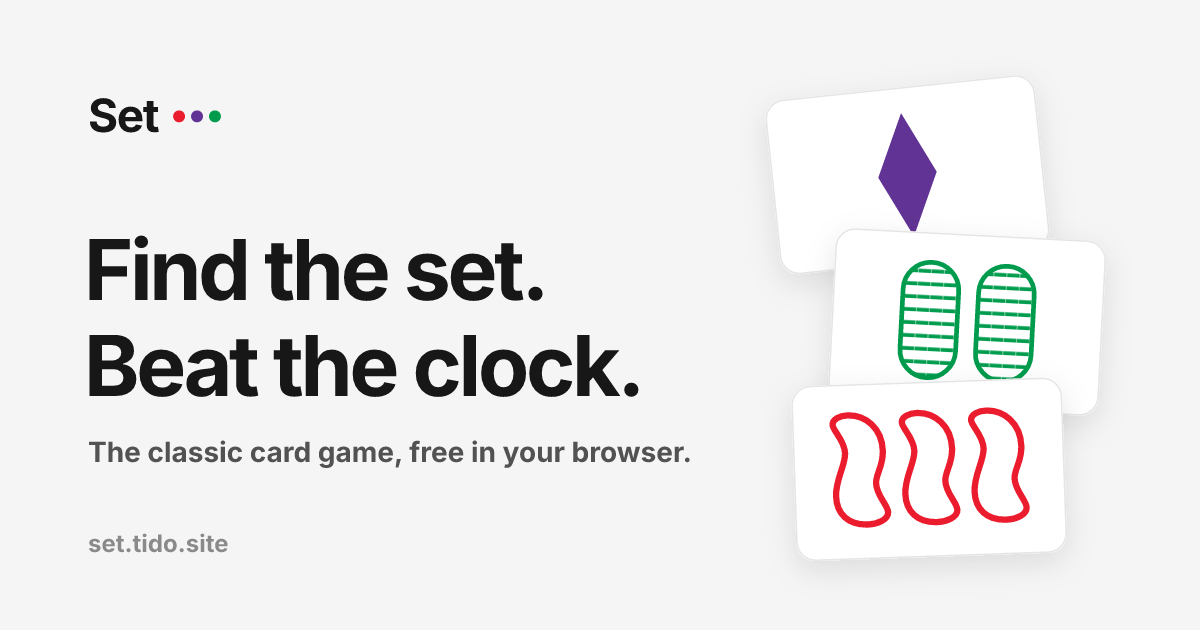
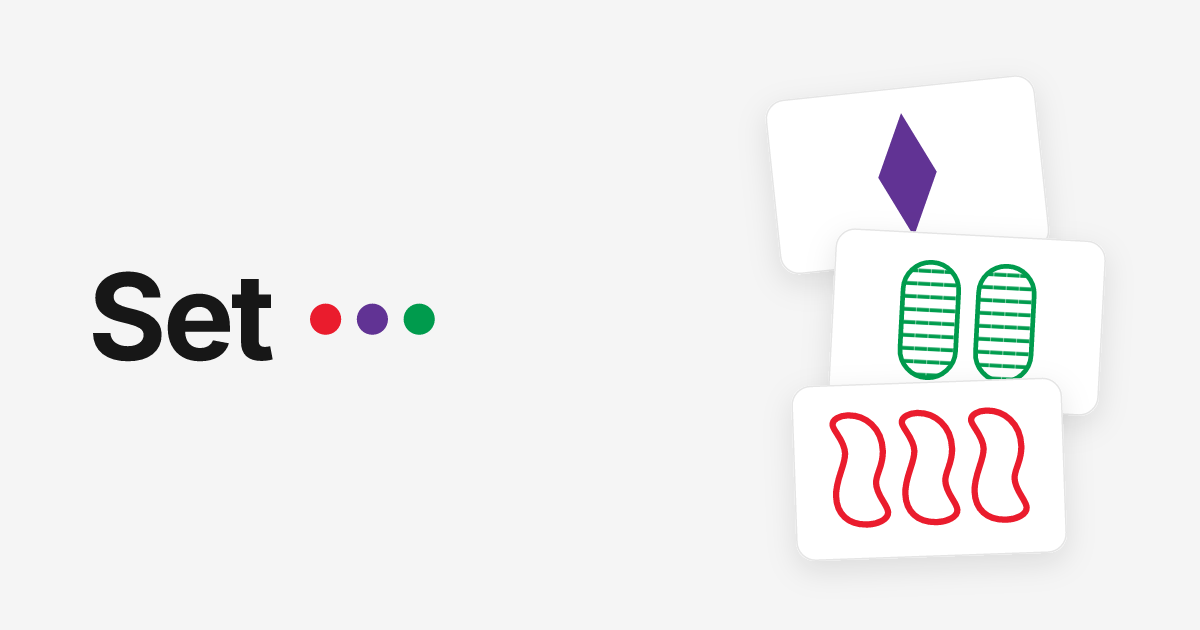
Calmer reminder settings and bare page names
- Reminder modal: no toggle or Save/Cancel; one line "Email me at [time] if I haven’t played." with a flat neutral time chip, changes save immediately, one quiet Turn off / Turn on.
- TimeSelect: flat chip sized to its label over a transparent native select (keeps the native picker, password-manager ignore attributes).
- Titles, descriptions, OG/Twitter tags and manifest reduced to bare names (Set Daily Deal, Set Puzzle, ...); default share image drops its tagline.

diff --git a/app/javascript/components/ReminderDialog.tsx b/app/javascript/components/ReminderDialog.tsx
@@ -1,7 +1,8 @@
 import React, { useEffect, useRef, useState } from 'react'
 import TimeSelect from './TimeSelect'
-import { getReminder, saveReminder, DEFAULT_REMINDER_MINUTES } from '../lib/reminder'
-import { primaryButton, secondaryButton } from '../lib/buttons'
+import { CloseIcon } from './Hud'
+import { getReminder, saveReminder, DEFAULT_REMINDER_MINUTES, type ReminderSetting } from '../lib/reminder'
+import { primaryButtonSmall, secondaryButtonSmall } from '../lib/buttons'
 
 const OPEN_EVENT = 'setgame:reminder-settings'
 
@@ -9,22 +10,19 @@ export function openReminderDialog(): void {
   window.dispatchEvent(new Event(OPEN_EVENT))
 }
 
-/** "Reminder" from the header menu (signed in): on/off and the time. */
+/** "Reminder" from the header menu (signed in). Every change saves as it's made. */
 const ReminderDialog: React.FC = () => {
   const ref = useRef<HTMLDialogElement | null>(null)
-  const [openCount, setOpenCount] = useState(0)
-  const [enabled, setEnabled] = useState(false)
-  const [minutes, setMinutes] = useState(DEFAULT_REMINDER_MINUTES)
+  const [open, setOpen] = useState(false)
+  const [setting, setSetting] = useState<ReminderSetting>({ enabled: false, minutes: DEFAULT_REMINDER_MINUTES })
   const [saving, setSaving] = useState(false)
   const [failed, setFailed] = useState(false)
 
   useEffect(() => {
     const onOpen = () => {
-      const current = getReminder()
-      setEnabled(current?.enabled ?? false)
-      setMinutes(current?.minutes ?? DEFAULT_REMINDER_MINUTES)
+      setSetting(getReminder() ?? { enabled: false, minutes: DEFAULT_REMINDER_MINUTES })
       setFailed(false)
-      setOpenCount(count => count + 1)
+      setOpen(true)
       if (ref.current && !ref.current.open) ref.current.showModal()
     }
     window.addEventListener(OPEN_EVENT, onOpen)
@@ -32,46 +30,60 @@ const ReminderDialog: React.FC = () => {
   }, [])
 
   const close = () => ref.current?.close()
-  const save = async () => {
+  const apply = async (next: ReminderSetting) => {
+    const previous = setting
+    setSetting(next)
     setSaving(true)
-    const ok = await saveReminder({ enabled, minutes })
+    setFailed(false)
+    const ok = await saveReminder(next)
     setSaving(false)
-    if (ok) close()
-    else setFailed(true)
+    if (!ok) {
+      setSetting(previous)
+      setFailed(true)
+    }
   }
 
   return (
     <dialog
       ref={ref}
       aria-labelledby="reminder-dialog-title"
+      onClose={() => setOpen(false)}
       onClick={event => { if (event.target === ref.current) close() }}
       className="m-auto w-[min(22rem,calc(100vw-2rem))] rounded-2xl border border-neutral-200 bg-white p-0 text-neutral-900 shadow-xl backdrop:bg-black/40 dark:border-neutral-700 dark:bg-neutral-900 dark:text-neutral-100"
     >
-      {openCount > 0 && (
-        <div className="p-5">
-          <h2 id="reminder-dialog-title" className="text-base font-semibold">Reminder email</h2>
-          <p className="mt-1 text-xs text-neutral-500 dark:text-neutral-400">Only on days you haven’t played.</p>
-          <div className="mt-4 flex items-center justify-between gap-3">
-            <label htmlFor="reminder-enabled" className="text-sm">Email me at</label>
-            <div className="flex items-center gap-2">
-              <TimeSelect value={minutes} onChange={setMinutes} disabled={!enabled} />
-              <button
-                id="reminder-enabled"
-                type="button"
-                role="switch"
-                aria-checked={enabled}
-                aria-label="Reminder email"
-                onClick={() => setEnabled(value => !value)}
-                className={`relative h-6 w-10 shrink-0 rounded-full transition-colors ${enabled ? 'bg-emerald-500' : 'bg-neutral-300 dark:bg-neutral-600'}`}
-              >
-                <span className={`absolute top-0.5 h-5 w-5 rounded-full bg-white shadow transition-all ${enabled ? 'left-[1.125rem]' : 'left-0.5'}`} />
-              </button>
-            </div>
-          </div>
-          {failed && <p role="status" className="mt-2 text-xs text-rose-700 dark:text-rose-300">Couldn’t save. Try again.</p>}
-          <div className="mt-5 flex gap-2">
-            <button type="button" onClick={close} className={`${secondaryButton} flex-1`}>Cancel</button>
-            <button type="button" onClick={() => void save()} disabled={saving} className={`${primaryButton} flex-1`}>Save</button>
+      {open && (
+        <div className="relative p-5">
+          <h2 id="reminder-dialog-title" className="pr-8 text-base font-semibold">
+            Reminder email
+            <span className="ml-1.5 text-sm font-normal text-neutral-400 dark:text-neutral-500">{setting.enabled ? 'On' : 'Off'}</span>
+          </h2>
+          <button
+            type="button"
+            onClick={close}
+            aria-label="Close"
+            className="absolute right-2 top-2 flex h-9 w-9 items-center justify-center rounded-full text-neutral-400 transition-colors hover:bg-neutral-100 hover:text-neutral-700 dark:text-neutral-500 dark:hover:bg-neutral-800 dark:hover:text-neutral-200"
+          >
+            <CloseIcon />
+          </button>
+          <p className={`mt-2 text-balance text-sm leading-7 transition-colors ${setting.enabled ? 'text-neutral-700 dark:text-neutral-200' : 'text-neutral-500 dark:text-neutral-400'}`}>
+            Email me at{' '}
+            <TimeSelect
+              value={setting.minutes}
+              disabled={saving}
+              onChange={minutes => (setting.enabled ? void apply({ ...setting, minutes }) : setSetting({ ...setting, minutes }))}
+            />
+            {' '}if I haven’t played.
+          </p>
+          <div className="mt-4 flex items-center gap-3">
+            <button
+              type="button"
+              disabled={saving}
+              onClick={() => void apply({ ...setting, enabled: !setting.enabled })}
+              className={setting.enabled ? secondaryButtonSmall : primaryButtonSmall}
+            >
+              {setting.enabled ? 'Turn off' : 'Turn on'}
+            </button>
+            {failed && <p role="status" className="text-xs text-rose-700 dark:text-rose-300">Couldn’t save. Try again.</p>}
           </div>
         </div>
       )}

diff --git a/app/javascript/components/TimeSelect.tsx b/app/javascript/components/TimeSelect.tsx
@@ -6,25 +6,43 @@ interface TimeSelectProps {
   onChange: (minutes: number) => void
   label?: string
   disabled?: boolean
+  /** xs for inline card copy, sm for dialogs. */
+  size?: 'xs' | 'sm'
 }
 
-/** A half-hourly time picker in the site's pill shape. */
-const TimeSelect: React.FC<TimeSelectProps> = ({ value, onChange, label = 'Reminder time', disabled = false }) => (
-  <select
-    aria-label={label}
-    value={value}
-    disabled={disabled}
-    onChange={event => onChange(Number(event.target.value))}
-    data-1p-ignore
-    data-lpignore="true"
-    data-bwignore="true"
-    autoComplete="off"
-    className="min-h-9 cursor-pointer rounded-full border border-neutral-300 bg-white px-3 text-xs font-medium tabular-nums text-neutral-800 focus:border-neutral-500 focus:outline-none disabled:opacity-50 dark:border-neutral-600 dark:bg-neutral-900 dark:text-neutral-100"
+/**
+ * A half-hourly time picker drawn as a flat neutral chip sized to its text.
+ * A transparent native <select> sits on top, so phones show their own wheel
+ * and keyboards work as usual.
+ */
+const TimeSelect: React.FC<TimeSelectProps> = ({ value, onChange, label = 'Reminder time', disabled = false, size = 'sm' }) => (
+  <span
+    className={`relative inline-flex items-center gap-1 rounded-md bg-neutral-100 align-middle font-medium tabular-nums text-neutral-900 transition-colors hover:bg-neutral-200 focus-within:ring-2 focus-within:ring-neutral-400 dark:bg-neutral-800 dark:text-neutral-100 dark:hover:bg-neutral-700 ${
+      size === 'xs' ? 'h-6 px-1.5 text-xs' : 'h-7 px-2 text-sm'
+    } ${disabled ? 'opacity-50' : ''}`}
   >
-    {REMINDER_TIMES.map(minutes => (
-      <option key={minutes} value={minutes}>{reminderLabel(minutes)}</option>
-    ))}
-  </select>
+    <span aria-hidden="true">{reminderLabel(value)}</span>
+    <svg aria-hidden="true" viewBox="0 0 12 12" fill="none" stroke="currentColor" strokeWidth="1.6" strokeLinecap="round" strokeLinejoin="round"
+      className={`text-neutral-400 dark:text-neutral-500 ${size === 'xs' ? 'h-2.5 w-2.5' : 'h-3 w-3'}`}>
+      <path d="M3 4.5 6 7.5 9 4.5" />
+    </svg>
+    <select
+      aria-label={label}
+      value={value}
+      disabled={disabled}
+      onChange={event => onChange(Number(event.target.value))}
+      data-1p-ignore
+      data-lpignore="true"
+      data-bwignore="true"
+      data-form-type="other"
+      autoComplete="off"
+      className="absolute inset-0 h-full w-full cursor-pointer appearance-none opacity-0 focus:outline-none disabled:cursor-default"
+    >
+      {REMINDER_TIMES.map(minutes => (
+        <option key={minutes} value={minutes}>{reminderLabel(minutes)}</option>
+      ))}
+    </select>
+  </span>
 )
 
 export default TimeSelect

diff --git a/app/javascript/lib/buttons.ts b/app/javascript/lib/buttons.ts
@@ -4,3 +4,4 @@
 export const primaryButton = 'min-h-11 rounded-full bg-neutral-900 px-4 text-sm font-medium text-white transition-colors hover:bg-neutral-700 disabled:opacity-50 dark:bg-neutral-100 dark:text-neutral-900 dark:hover:bg-neutral-300'
 export const secondaryButton = 'min-h-11 rounded-full border border-neutral-300 px-4 text-sm font-medium text-neutral-700 transition-colors hover:bg-neutral-100 disabled:opacity-50 dark:border-neutral-600 dark:text-neutral-200 dark:hover:bg-neutral-800'
 export const secondaryButtonSmall = 'inline-flex min-h-9 items-center justify-center rounded-full border border-neutral-300 bg-white px-3.5 text-xs font-medium text-neutral-700 transition-colors hover:bg-neutral-100 disabled:opacity-50 dark:border-neutral-600 dark:bg-neutral-900 dark:text-neutral-200 dark:hover:bg-neutral-800'
+export const primaryButtonSmall = 'inline-flex min-h-9 items-center justify-center rounded-full bg-neutral-900 px-3.5 text-xs font-medium text-white transition-colors hover:bg-neutral-700 disabled:opacity-50 dark:bg-neutral-100 dark:text-neutral-900 dark:hover:bg-neutral-300'

diff --git a/app/javascript/components/ReminderOffer.tsx b/app/javascript/components/ReminderOffer.tsx
@@ -1,7 +1,7 @@
 import React, { useState } from 'react'
 import { ReminderLine } from './SignInForm'
 import { saveReminder, reminderLabel, DEFAULT_REMINDER_MINUTES } from '../lib/reminder'
-import { secondaryButton } from '../lib/buttons'
+import { secondaryButtonSmall } from '../lib/buttons'
 import { track } from '../lib/analytics'
 
 /** On a result card for a signed-in player with the reminder off: the time and Turn on. */
@@ -25,7 +25,7 @@ const ReminderOffer: React.FC<{ initialMinutes?: number }> = ({ initialMinutes =
           setState(ok ? 'on' : 'failed')
           track('reminder_on', { source: 'card', ok })
         }}
-        className={`${secondaryButton} w-full`}
+        className={secondaryButtonSmall}
       >
         Turn on
       </button>

diff --git a/app/javascript/components/SignInForm.tsx b/app/javascript/components/SignInForm.tsx
@@ -84,11 +84,9 @@ const SignInForm: React.FC<SignInFormProps> = ({ source, quiet = false, autoFocu
 
 /** "Email me at [8:00 AM] if I haven't played" */
 export const ReminderLine: React.FC<{ minutes: number; onChange: (minutes: number) => void }> = ({ minutes, onChange }) => (
-  <div className="mb-2 flex flex-wrap items-center gap-x-1.5 gap-y-1 text-xs text-neutral-500 dark:text-neutral-400">
-    <span>Email me at</span>
-    <TimeSelect value={minutes} onChange={onChange} />
-    <span>if I haven’t played</span>
-  </div>
+  <p className="mb-2 text-xs leading-6 text-neutral-500 dark:text-neutral-400">
+    Email me at <TimeSelect value={minutes} onChange={onChange} size="xs" /> if I haven’t played
+  </p>
 )
 
 export default SignInForm

diff --git a/test/browser/daily.spec.ts b/test/browser/daily.spec.ts
@@ -107,7 +107,7 @@ test('the daily is one shared deal: played once, clocked from first paint, then 
   await page.addInitScript(() => localStorage.setItem('setgame_name', 'Daily Tester'))
 
   await page.goto('/daily')
-  await expect(page).toHaveTitle('Set Daily Deal — Today’s deal, same for everyone')
+  await expect(page).toHaveTitle('Set Daily Deal')
   await expect(page.getByRole('button', { name: 'Daily Deal', exact: true })).toHaveAttribute('aria-pressed', 'true')
   await expect(page.getByText('Same deal for everyone today.')).toBeVisible()
   const label = await page.getByText(/^Daily Deal #\d+$/).first().innerText()

diff --git a/test/browser/puzzle.spec.ts b/test/browser/puzzle.spec.ts
@@ -35,7 +35,7 @@ test('the Puzzle is 12 cards with exactly 6 sets; finding them all lands on a re
   page.on('pageerror', error => errors.push(error.message))
   const events = await recordEvents(page)
   await page.goto('/puzzle')
-  await expect(page).toHaveTitle('Set Puzzle — Find all 6 sets in today’s 12 cards')
+  await expect(page).toHaveTitle('Set Puzzle')
   await expect(page.getByRole('button', { name: 'Puzzle', exact: true })).toHaveAttribute('aria-pressed', 'true')
   await expect(page.locator('[data-card-id]')).toHaveCount(0)
   await page.getByRole('button', { name: 'Start', exact: true }).click()

diff --git a/app/javascript/components/App.tsx b/app/javascript/components/App.tsx
@@ -36,10 +36,10 @@ function modeFromPath(pathname: string): GameMode {
 
 // Must match the <title> each route renders in app/views/home.
 const TITLES: Record<GameMode, string> = {
-  daily: 'Set Daily Deal — Today’s deal, same for everyone',
-  puzzle: 'Set Puzzle — Find all 6 sets in today’s 12 cards',
-  solo: 'Set Practice — Timed solo games, free',
-  multiplayer: 'Set Multiplayer — Race friends to find sets'
+  daily: 'Set Daily Deal',
+  puzzle: 'Set Puzzle',
+  solo: 'Set Practice',
+  multiplayer: 'Set Multiplayer'
 }
 
 const App: React.FC = () => {

diff --git a/test/controllers/home_controller_test.rb b/test/controllers/home_controller_test.rb
@@ -18,11 +18,11 @@ class HomeControllerTest < ActionDispatch::IntegrationTest
 
   test "each page has its own title, description, canonical URL and share preview" do
     {
-      "/" => ["Set Daily Deal — Today’s deal, same for everyone", "https://set.tido.site/"],
-      "/daily" => ["Set Daily Deal — Today’s deal, same for everyone", "https://set.tido.site/"],
-      "/puzzle" => ["Set Puzzle — Find all 6 sets in today’s 12 cards", "https://set.tido.site/puzzle"],
-      "/practice" => ["Set Practice — Timed solo games, free", "https://set.tido.site/practice"],
-      "/m" => ["Set Multiplayer — Race friends to find sets", "https://set.tido.site/m"]
+      "/" => ["Set Daily Deal", "https://set.tido.site/"],
+      "/daily" => ["Set Daily Deal", "https://set.tido.site/"],
+      "/puzzle" => ["Set Puzzle", "https://set.tido.site/puzzle"],
+      "/practice" => ["Set Practice", "https://set.tido.site/practice"],
+      "/m" => ["Set Multiplayer", "https://set.tido.site/m"]
     }.each do |path, (title, url)|
       get path
       assert_response :success
@@ -93,7 +93,7 @@ class HomeControllerTest < ActionDispatch::IntegrationTest
     PREVIEW_BOTS.values_at("Slack", "X").each do |user_agent|
       get "/daily", params: { r: token }, headers: { "User-Agent" => user_agent }
       assert_response :success
-      assert_select "title", text: "Set Daily Deal — Today’s deal, same for everyone"
+      assert_select "title", text: "Set Daily Deal"
       assert_select "link[rel=canonical][href=?]", "https://set.tido.site/"
       assert_select "meta[property='og:title'][content=?]", "Set Daily Deal #12 · 2:41"
       assert_select "meta[name='twitter:title'][content=?]", "Set Daily Deal #12 · 2:41"
@@ -104,7 +104,7 @@ class HomeControllerTest < ActionDispatch::IntegrationTest
     end
 
     get "/daily", params: { r: "c-3gk0-abcdefghijkl" }
-    assert_select "meta[property='og:title'][content=?]", "Set Daily Deal — Today’s deal, same for everyone"
+    assert_select "meta[property='og:title'][content=?]", "Set Daily Deal"
     assert_select "meta[property='og:image'][content=?]", "https://set.tido.site/og-image.png"
   end
 

diff --git a/app/helpers/application_helper.rb b/app/helpers/application_helper.rb
@@ -1,17 +1,13 @@
 module ApplicationHelper
   SITE_URL = "https://set.tido.site"
-  DEFAULT_TITLE = "Set — Play the card game online, free"
-  DEFAULT_DESCRIPTION = "Play the classic Set card game free in your browser: a Daily Deal and a daily 12-card " \
-                        "Puzzle with leaderboards, timed practice games and live multiplayer with friends. " \
-                        "No signup, works on phone and desktop."
-  DEFAULT_IMAGE_ALT = "Set: find the set, beat the clock. Three Set cards fanned out, forming a set."
+  DEFAULT_TITLE = "Set"
 
   def page_title
     content_for(:title).presence || DEFAULT_TITLE
   end
 
   def page_description
-    content_for(:description).presence || DEFAULT_DESCRIPTION
+    content_for(:description).presence || page_title
   end
 
   def canonical_url
@@ -36,6 +32,6 @@ module ApplicationHelper
   end
 
   def social_image_alt
-    content_for(:social_image_alt).presence || DEFAULT_IMAGE_ALT
+    content_for(:social_image_alt).presence || DEFAULT_TITLE
   end
 end
